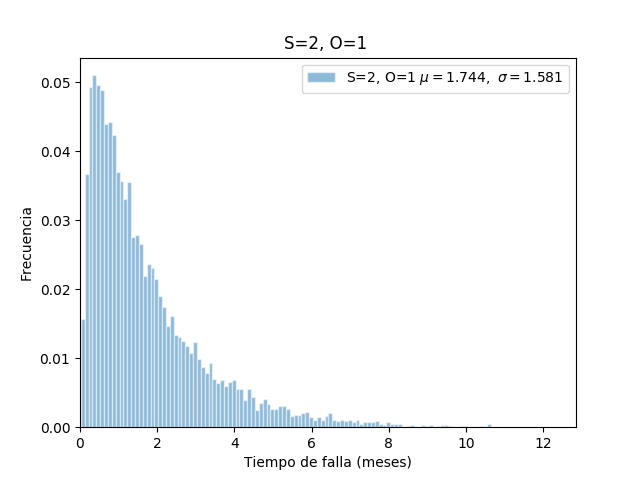
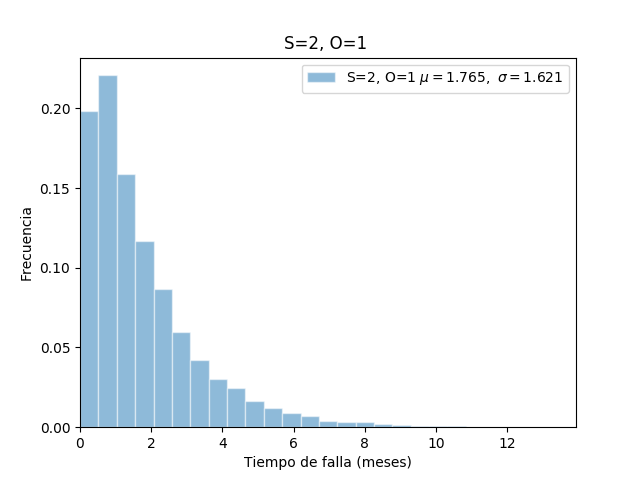
Figures

diff --git a/FinalProject/simulations.py b/FinalProject/simulations.py
@@ -133,7 +133,7 @@ def comparison(es):
 
 
 if __name__ == '__main__':
-    nbins = 0.1
+    nbins = 0.5
 
     params = [(2, 1), (2, 2), (3, 1)]  # (spare, oper)
     es = {(s, o): run(spare=s, oper=o) for s, o in params}
